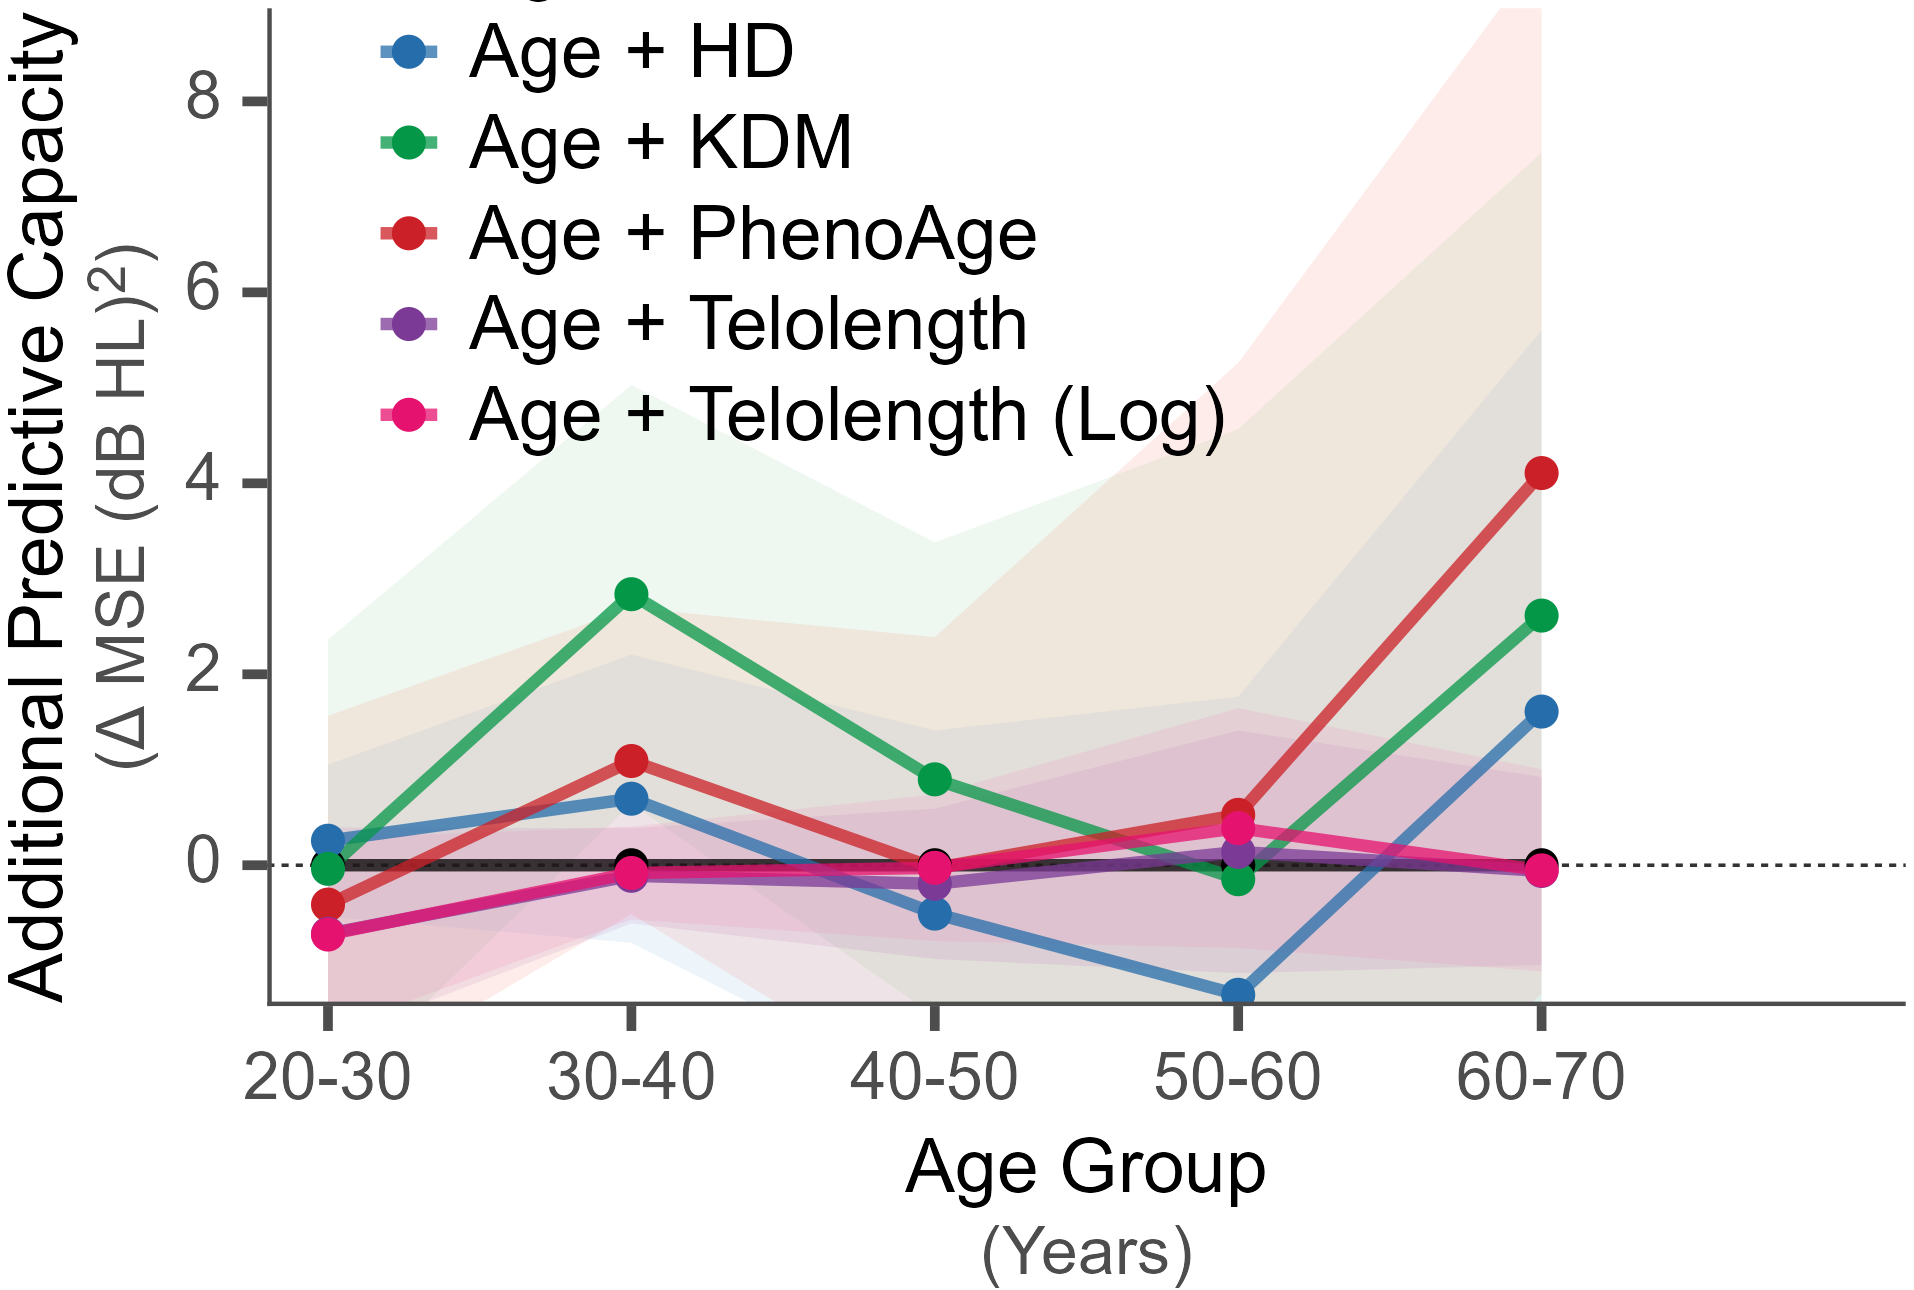
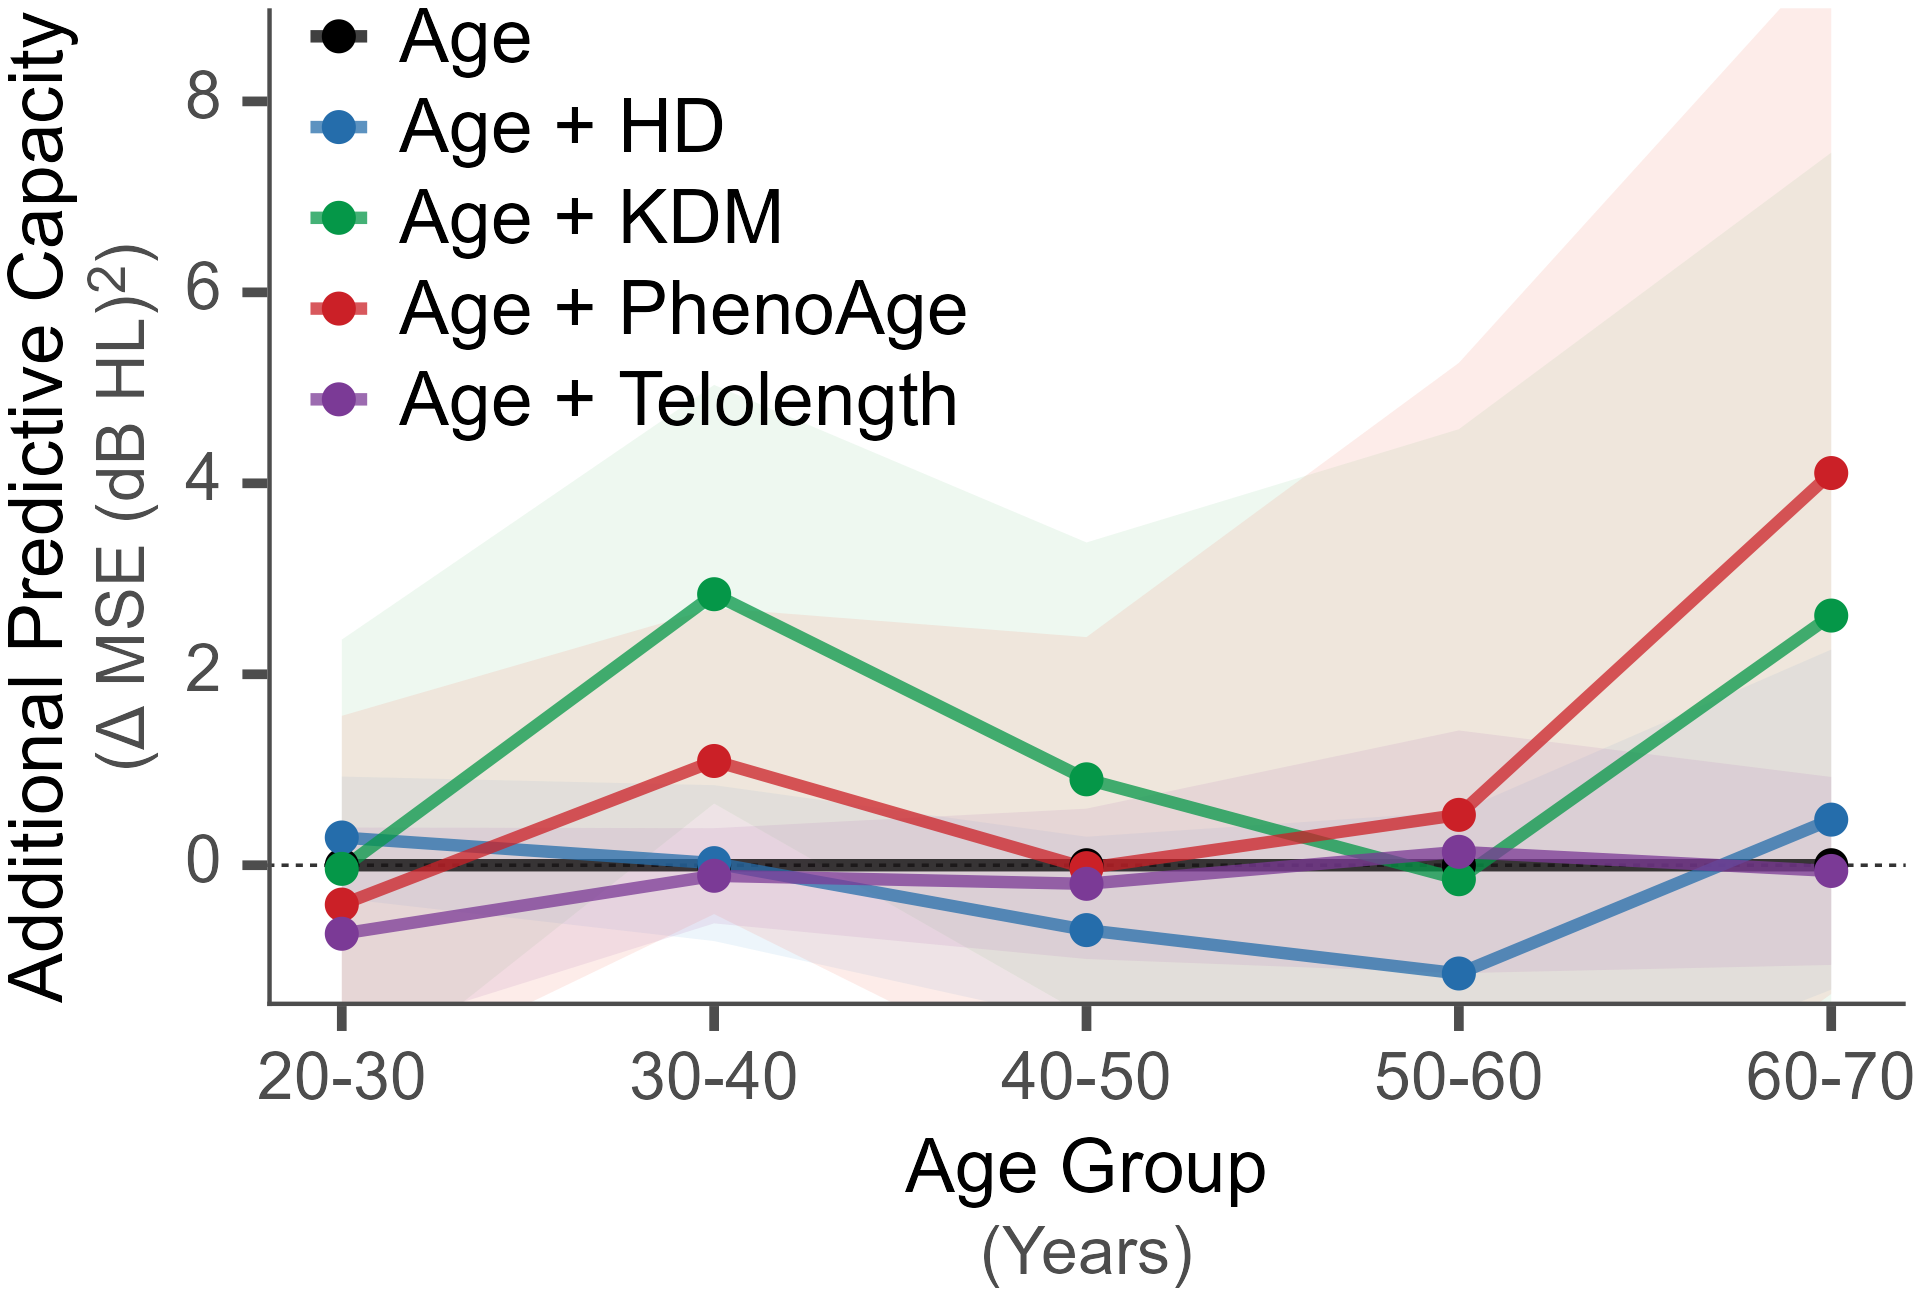
Update savestates telolength

Changed region(s): [[0.1233, 0.0, 0.9864, 0.8682], [0.8939, 0.8062, 1.0, 0.8682], [0.7398, 0.5271, 0.7706, 0.5581]]

diff --git a/Output/Figures/FI_high/Telolength/table_bioage.html b/Output/Figures/FI_high/Telolength/table_bioage.html
@@ -295,95 +295,95 @@ border: 0;
   <tr>
    <td style="text-align:left;vertical-align: top !important;" rowspan="5"> Age </td>
    <td style="text-align:left;"> 20-30 </td>
-   <td style="text-align:right;"> 47.3 </td>
+   <td style="text-align:right;"> 473 </td>
    <td style="text-align:right;"> 0.659 </td>
-   <td style="text-align:right;"> 0.00 </td>
-   <td style="text-align:right;"> ns </td>
+   <td style="text-align:right;">  </td>
+   <td style="text-align:right;">  </td>
   </tr>
   <tr>
    
    <td style="text-align:left;"> 30-40 </td>
-   <td style="text-align:right;"> 49.7 </td>
+   <td style="text-align:right;"> 497 </td>
    <td style="text-align:right;"> 0.428 </td>
-   <td style="text-align:right;"> 0.00 </td>
-   <td style="text-align:right;"> ns </td>
+   <td style="text-align:right;">  </td>
+   <td style="text-align:right;">  </td>
   </tr>
   <tr>
    
    <td style="text-align:left;"> 40-50 </td>
-   <td style="text-align:right;"> 50.7 </td>
+   <td style="text-align:right;"> 507 </td>
    <td style="text-align:right;"> 0.240 </td>
-   <td style="text-align:right;"> 0.00 </td>
-   <td style="text-align:right;"> ns </td>
+   <td style="text-align:right;">  </td>
+   <td style="text-align:right;">  </td>
   </tr>
   <tr>
    
    <td style="text-align:left;"> 50-60 </td>
-   <td style="text-align:right;"> 39.7 </td>
+   <td style="text-align:right;"> 397 </td>
    <td style="text-align:right;"> 0.400 </td>
-   <td style="text-align:right;"> 0.00 </td>
-   <td style="text-align:right;"> ns </td>
+   <td style="text-align:right;">  </td>
+   <td style="text-align:right;">  </td>
   </tr>
   <tr>
    
    <td style="text-align:left;"> 60-70 </td>
-   <td style="text-align:right;"> 46.0 </td>
+   <td style="text-align:right;"> 460 </td>
    <td style="text-align:right;"> 0.602 </td>
-   <td style="text-align:right;"> 0.00 </td>
-   <td style="text-align:right;"> ns </td>
+   <td style="text-align:right;">  </td>
+   <td style="text-align:right;">  </td>
   </tr>
   <tr>
    <td style="text-align:left;vertical-align: top !important;" rowspan="5"> Age + HD </td>
    <td style="text-align:left;"> 20-30 </td>
-   <td style="text-align:right;"> 47.3 </td>
+   <td style="text-align:right;"> 473 </td>
    <td style="text-align:right;"> 0.660 </td>
-   <td style="text-align:right;"> 0.01 </td>
+   <td style="text-align:right;"> 0.02 </td>
    <td style="text-align:right;"> ns </td>
   </tr>
   <tr>
    
    <td style="text-align:left;"> 30-40 </td>
-   <td style="text-align:right;"> 49.7 </td>
-   <td style="text-align:right;"> 0.432 </td>
-   <td style="text-align:right;"> 0.03 </td>
+   <td style="text-align:right;"> 497 </td>
+   <td style="text-align:right;"> 0.428 </td>
+   <td style="text-align:right;"> 0 </td>
    <td style="text-align:right;"> ns </td>
   </tr>
   <tr>
    
    <td style="text-align:left;"> 40-50 </td>
-   <td style="text-align:right;"> 50.7 </td>
+   <td style="text-align:right;"> 507 </td>
    <td style="text-align:right;"> 0.237 </td>
-   <td style="text-align:right;"> -0.02 </td>
+   <td style="text-align:right;"> -0.03 </td>
    <td style="text-align:right;"> ns </td>
   </tr>
   <tr>
    
    <td style="text-align:left;"> 50-60 </td>
-   <td style="text-align:right;"> 39.7 </td>
-   <td style="text-align:right;"> 0.397 </td>
+   <td style="text-align:right;"> 397 </td>
+   <td style="text-align:right;"> 0.398 </td>
    <td style="text-align:right;"> -0.04 </td>
    <td style="text-align:right;"> ns </td>
   </tr>
   <tr>
    
    <td style="text-align:left;"> 60-70 </td>
-   <td style="text-align:right;"> 46.0 </td>
-   <td style="text-align:right;"> 0.605 </td>
-   <td style="text-align:right;"> 0.05 </td>
+   <td style="text-align:right;"> 460 </td>
+   <td style="text-align:right;"> 0.603 </td>
+   <td style="text-align:right;"> 0.01 </td>
    <td style="text-align:right;"> ns </td>
   </tr>
   <tr>
    <td style="text-align:left;vertical-align: top !important;" rowspan="5"> Age + KDM </td>
    <td style="text-align:left;"> 20-30 </td>
-   <td style="text-align:right;"> 47.3 </td>
+   <td style="text-align:right;"> 473 </td>
    <td style="text-align:right;"> 0.659 </td>
-   <td style="text-align:right;"> 0.00 </td>
+   <td style="text-align:right;"> 0 </td>
    <td style="text-align:right;"> ns </td>
   </tr>
   <tr>
    
    <td style="text-align:left;"> 30-40 </td>
-   <td style="text-align:right;"> 49.7 </td>
+   <td style="text-align:right;"> 497 </td>
    <td style="text-align:right;"> 0.444 </td>
    <td style="text-align:right;"> 0.14 </td>
    <td style="text-align:right;"> ns </td>
@@ -391,7 +391,7 @@ border: 0;
   <tr>
    
    <td style="text-align:left;"> 40-50 </td>
-   <td style="text-align:right;"> 50.7 </td>
+   <td style="text-align:right;"> 507 </td>
    <td style="text-align:right;"> 0.244 </td>
    <td style="text-align:right;"> 0.04 </td>
    <td style="text-align:right;"> ns </td>
@@ -399,15 +399,15 @@ border: 0;
   <tr>
    
    <td style="text-align:left;"> 50-60 </td>
-   <td style="text-align:right;"> 39.7 </td>
+   <td style="text-align:right;"> 397 </td>
    <td style="text-align:right;"> 0.400 </td>
-   <td style="text-align:right;"> 0.00 </td>
+   <td style="text-align:right;"> 0 </td>
    <td style="text-align:right;"> ns </td>
   </tr>
   <tr>
    
    <td style="text-align:left;"> 60-70 </td>
-   <td style="text-align:right;"> 46.0 </td>
+   <td style="text-align:right;"> 460 </td>
    <td style="text-align:right;"> 0.606 </td>
    <td style="text-align:right;"> 0.08 </td>
    <td style="text-align:right;"> ns </td>
@@ -415,7 +415,7 @@ border: 0;
   <tr>
    <td style="text-align:left;vertical-align: top !important;" rowspan="5"> Age + PhenoAge </td>
    <td style="text-align:left;"> 20-30 </td>
-   <td style="text-align:right;"> 47.3 </td>
+   <td style="text-align:right;"> 473 </td>
    <td style="text-align:right;"> 0.657 </td>
    <td style="text-align:right;"> -0.02 </td>
    <td style="text-align:right;"> ns </td>
@@ -423,7 +423,7 @@ border: 0;
   <tr>
    
    <td style="text-align:left;"> 30-40 </td>
-   <td style="text-align:right;"> 49.7 </td>
+   <td style="text-align:right;"> 497 </td>
    <td style="text-align:right;"> 0.434 </td>
    <td style="text-align:right;"> 0.05 </td>
    <td style="text-align:right;"> ns </td>
@@ -431,15 +431,15 @@ border: 0;
   <tr>
    
    <td style="text-align:left;"> 40-50 </td>
-   <td style="text-align:right;"> 50.7 </td>
+   <td style="text-align:right;"> 507 </td>
    <td style="text-align:right;"> 0.240 </td>
-   <td style="text-align:right;"> 0.00 </td>
+   <td style="text-align:right;"> 0 </td>
    <td style="text-align:right;"> ns </td>
   </tr>
   <tr>
    
    <td style="text-align:left;"> 50-60 </td>
-   <td style="text-align:right;"> 39.7 </td>
+   <td style="text-align:right;"> 397 </td>
    <td style="text-align:right;"> 0.402 </td>
    <td style="text-align:right;"> 0.02 </td>
    <td style="text-align:right;"> ns </td>
@@ -447,7 +447,7 @@ border: 0;
   <tr>
    
    <td style="text-align:left;"> 60-70 </td>
-   <td style="text-align:right;"> 46.0 </td>
+   <td style="text-align:right;"> 460 </td>
    <td style="text-align:right;"> 0.608 </td>
    <td style="text-align:right;"> 0.12 </td>
    <td style="text-align:right;"> ns </td>
@@ -455,7 +455,7 @@ border: 0;
   <tr>
    <td style="text-align:left;vertical-align: top !important;" rowspan="5"> Age + Telolength </td>
    <td style="text-align:left;"> 20-30 </td>
-   <td style="text-align:right;"> 47.3 </td>
+   <td style="text-align:right;"> 473 </td>
    <td style="text-align:right;"> 0.656 </td>
    <td style="text-align:right;"> -0.04 </td>
    <td style="text-align:right;"> ns </td>
@@ -463,7 +463,7 @@ border: 0;
   <tr>
    
    <td style="text-align:left;"> 30-40 </td>
-   <td style="text-align:right;"> 49.7 </td>
+   <td style="text-align:right;"> 497 </td>
    <td style="text-align:right;"> 0.428 </td>
    <td style="text-align:right;"> -0.01 </td>
    <td style="text-align:right;"> ns </td>
@@ -471,7 +471,7 @@ border: 0;
   <tr>
    
    <td style="text-align:left;"> 40-50 </td>
-   <td style="text-align:right;"> 50.7 </td>
+   <td style="text-align:right;"> 507 </td>
    <td style="text-align:right;"> 0.239 </td>
    <td style="text-align:right;"> -0.01 </td>
    <td style="text-align:right;"> ns </td>
@@ -479,57 +479,17 @@ border: 0;
   <tr>
    
    <td style="text-align:left;"> 50-60 </td>
-   <td style="text-align:right;"> 39.7 </td>
+   <td style="text-align:right;"> 397 </td>
    <td style="text-align:right;"> 0.401 </td>
-   <td style="text-align:right;"> 0.00 </td>
+   <td style="text-align:right;"> 0 </td>
    <td style="text-align:right;"> ns </td>
   </tr>
   <tr>
    
    <td style="text-align:left;"> 60-70 </td>
-   <td style="text-align:right;"> 46.0 </td>
+   <td style="text-align:right;"> 460 </td>
    <td style="text-align:right;"> 0.602 </td>
-   <td style="text-align:right;"> 0.00 </td>
-   <td style="text-align:right;"> ns </td>
-  </tr>
-  <tr>
-   <td style="text-align:left;vertical-align: top !important;" rowspan="5"> Age + Telolength (Log) </td>
-   <td style="text-align:left;"> 20-30 </td>
-   <td style="text-align:right;"> 47.3 </td>
-   <td style="text-align:right;"> 0.656 </td>
-   <td style="text-align:right;"> -0.04 </td>
-   <td style="text-align:right;"> ns </td>
-  </tr>
-  <tr>
-   
-   <td style="text-align:left;"> 30-40 </td>
-   <td style="text-align:right;"> 49.7 </td>
-   <td style="text-align:right;"> 0.428 </td>
-   <td style="text-align:right;"> 0.00 </td>
-   <td style="text-align:right;"> ns </td>
-  </tr>
-  <tr>
-   
-   <td style="text-align:left;"> 40-50 </td>
-   <td style="text-align:right;"> 50.7 </td>
-   <td style="text-align:right;"> 0.240 </td>
-   <td style="text-align:right;"> 0.00 </td>
-   <td style="text-align:right;"> ns </td>
-  </tr>
-  <tr>
-   
-   <td style="text-align:left;"> 50-60 </td>
-   <td style="text-align:right;"> 39.7 </td>
-   <td style="text-align:right;"> 0.401 </td>
-   <td style="text-align:right;"> 0.01 </td>
-   <td style="text-align:right;"> ns </td>
-  </tr>
-  <tr>
-   
-   <td style="text-align:left;"> 60-70 </td>
-   <td style="text-align:right;"> 46.0 </td>
-   <td style="text-align:right;"> 0.602 </td>
-   <td style="text-align:right;"> 0.00 </td>
+   <td style="text-align:right;"> 0 </td>
    <td style="text-align:right;"> ns </td>
   </tr>
 </tbody>

diff --git a/Output/Figures/FI_high/Telolength/table_bioage_overall.html b/Output/Figures/FI_high/Telolength/table_bioage_overall.html
@@ -293,44 +293,37 @@ border: 0;
 <tbody>
   <tr>
    <td style="text-align:left;"> Age </td>
-   <td style="text-align:left;"> 233.4 </td>
+   <td style="text-align:left;"> 2334 </td>
    <td style="text-align:right;"> 0.501 </td>
-   <td style="text-align:right;"> 0.00 </td>
-   <td style="text-align:right;"> ns </td>
+   <td style="text-align:right;">  </td>
+   <td style="text-align:right;">  </td>
   </tr>
   <tr>
    <td style="text-align:left;"> Age + HD </td>
-   <td style="text-align:left;"> 233.4 </td>
-   <td style="text-align:right;"> 0.501 </td>
-   <td style="text-align:right;"> 0.01 </td>
+   <td style="text-align:left;"> 2334 </td>
+   <td style="text-align:right;"> 0.500 </td>
+   <td style="text-align:right;"> -0.01 </td>
    <td style="text-align:right;"> ns </td>
   </tr>
   <tr>
    <td style="text-align:left;"> Age + KDM </td>
-   <td style="text-align:left;"> 233.4 </td>
+   <td style="text-align:left;"> 2334 </td>
    <td style="text-align:right;"> 0.505 </td>
    <td style="text-align:right;"> 0.05 </td>
    <td style="text-align:right;"> ns </td>
   </tr>
   <tr>
    <td style="text-align:left;"> Age + PhenoAge </td>
-   <td style="text-align:left;"> 233.4 </td>
+   <td style="text-align:left;"> 2334 </td>
    <td style="text-align:right;"> 0.504 </td>
    <td style="text-align:right;"> 0.04 </td>
    <td style="text-align:right;"> ns </td>
   </tr>
   <tr>
    <td style="text-align:left;"> Age + Telolength </td>
-   <td style="text-align:left;"> 233.4 </td>
+   <td style="text-align:left;"> 2334 </td>
    <td style="text-align:right;"> 0.500 </td>
    <td style="text-align:right;"> -0.01 </td>
-   <td style="text-align:right;"> ns </td>
-  </tr>
-  <tr>
-   <td style="text-align:left;"> Age + Telolength (Log) </td>
-   <td style="text-align:left;"> 233.4 </td>
-   <td style="text-align:right;"> 0.500 </td>
-   <td style="text-align:right;"> 0.00 </td>
    <td style="text-align:right;"> ns </td>
   </tr>
 </tbody>
